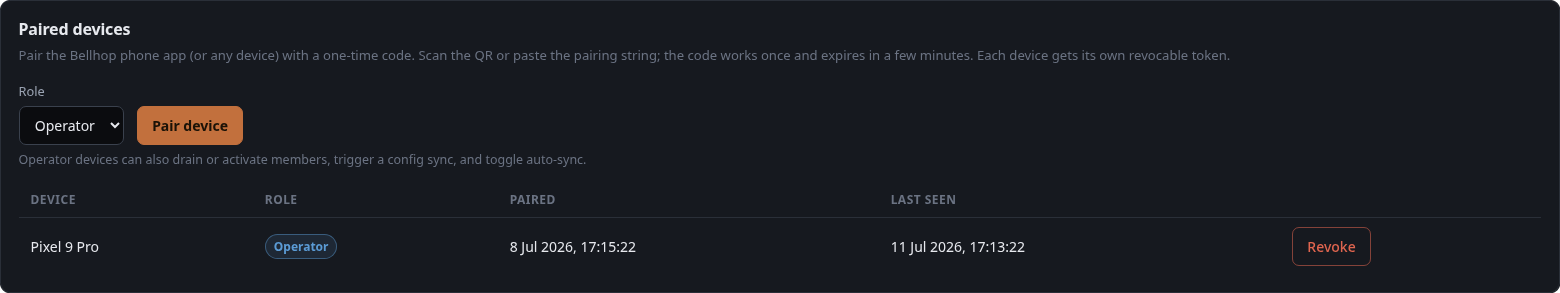
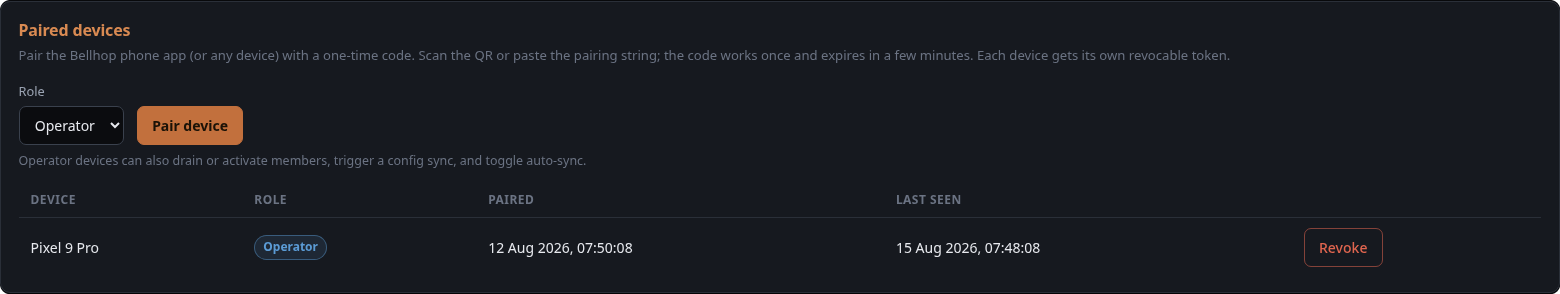
docs(screenshots): re-shoot Front Desk Settings for the paired layout
The eight frontdesk_settings*.png shots follow PR #678: the full-page
overview shows the paired cards (Alerts | Observability, Passkeys |
Authenticator, Active sessions | Paired devices), the rolled-up Alerts
card presented enabled, accent card titles, and no Fleet maintenance
section (the fleet holds no leftover Front Desk backups). Card crops are
captured with the pair grid unpaired so each card keeps the full width
the wiki sizes them at; the Security composite stays two stacked cards.

The HA wiki's Alerts walk-through now starts with the enable toggle,
which is what unrolls the fields.

diff --git a/wiki/High-Availability.md b/wiki/High-Availability.md
@@ -500,7 +500,8 @@ it out to Telegram, Discord, email, ntfy, and dozens more. Only routing metadata
 is sent, never request or prompt content.
 
 Run an `apprise` service reachable from Front Desk (a commented-out example ships
-in `deploy/ha/docker-compose.yml`), then in Front Desk **Settings -> Alerts**: set
+in `deploy/ha/docker-compose.yml`), then in Front Desk **Settings -> Alerts**:
+switch on **Send outbound alert notifications** (the card unrolls its fields), set
 the Apprise API URL (e.g. `http://apprise:8000`), paste your notification
 target(s), and pick which events to be notified about. The picker defaults to the
 high-signal HA events (a member going down or recovering, a config sync failing, a
